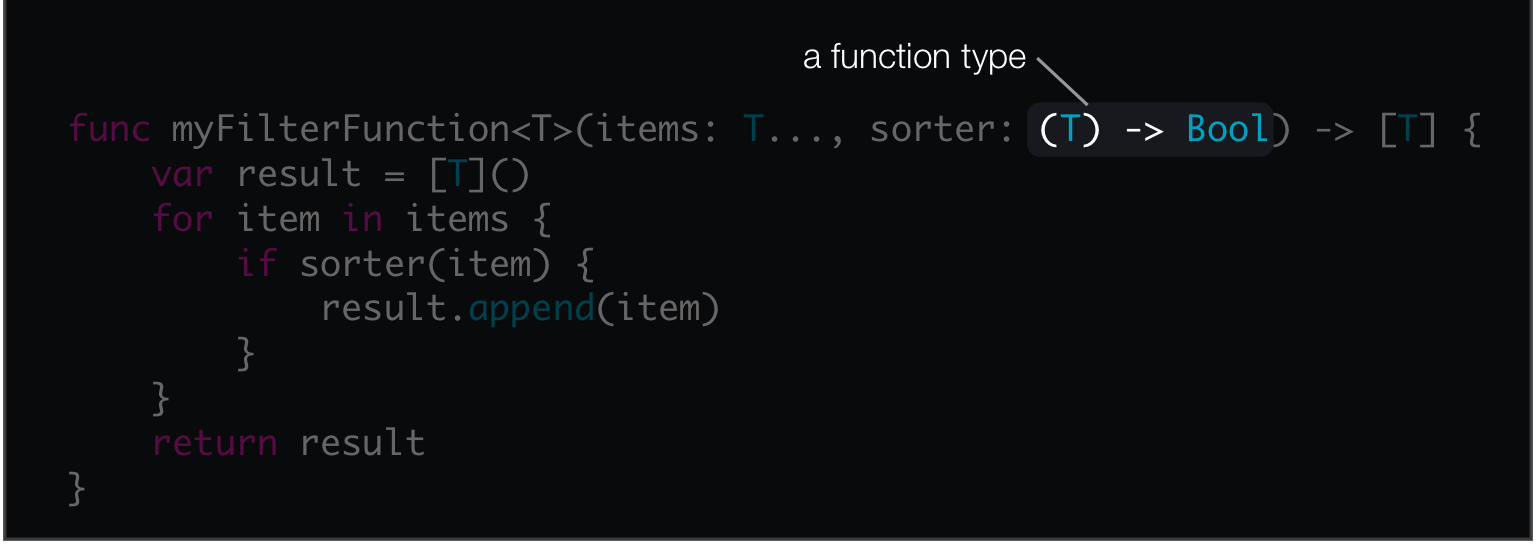
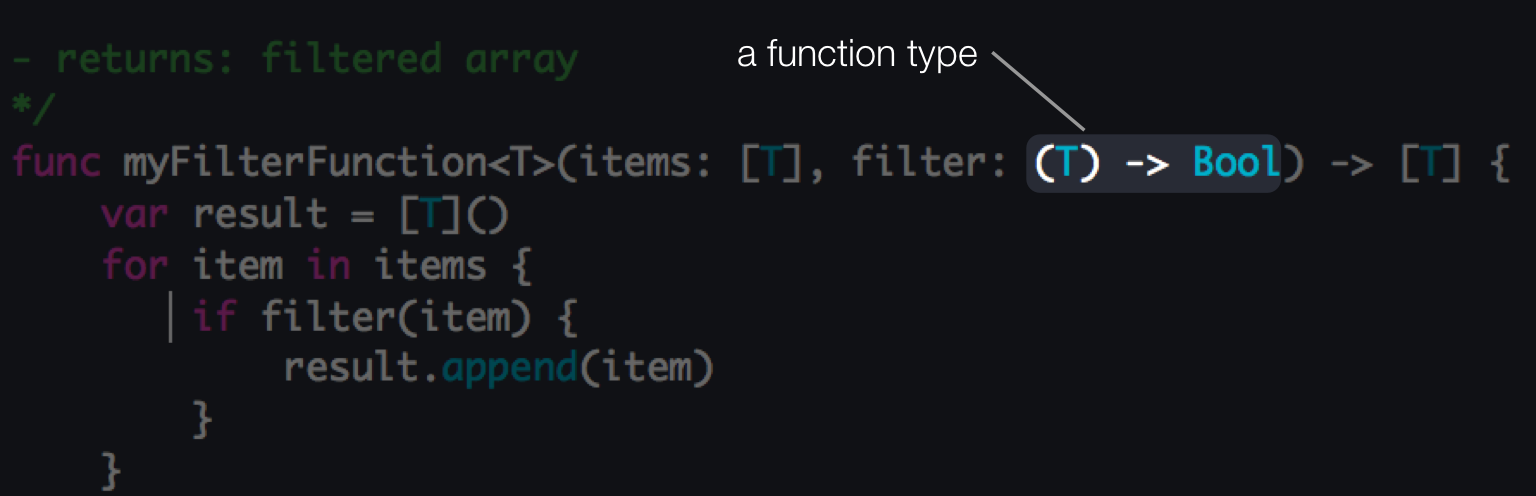
Revise `Functions` and `Closures`

Changed region(s): [[0.0, 0.0, 1.0, 1.0]]

diff --git a/Swift-Introduction.playground/Pages/Closures.xcplaygroundpage/Contents.swift b/Swift-Introduction.playground/Pages/Closures.xcplaygroundpage/Contents.swift
@@ -38,6 +38,15 @@ addClosure(1, 2)
 //:
 //: To use closures in your code, actually it's the same as function types. Like:
 
+/**
+A bubble sort function
+
+- parameter items:  Items to be sorted via this bubble sort function
+- parameter sorter: A function/closure which would be passed 2 items from the source array in.
+                    This function/closure should return `true` when the first parameter is greater than second one.
+
+- returns: sorted items
+*/
 func bubbleSort<T>(var items: [T], sorter: (T, T) -> Bool) -> [T] {
     let itemsCount = items.count
 
@@ -45,9 +54,11 @@ func bubbleSort<T>(var items: [T], sorter: (T, T) -> Bool) -> [T] {
         var swapped = false
         for i in 1..<itemsCount {
             if sorter(items[i], items[i - 1]) {  // should return `true` when items[i] is greater than items[i-1]
+                // Swap items
                 let temp = items[i]
                 items[i] = items[i - 1]
                 items[i - 1] = temp
+
                 swapped = true
             }
         }
@@ -58,9 +69,21 @@ func bubbleSort<T>(var items: [T], sorter: (T, T) -> Bool) -> [T] {
     return items
 }
 
-//: To instantiate closures, as anonymous functions, just like:
-
 let unorderedNumbers = [9, 1, 2, 5, 4, 6, 0, 7, 8, 3]
+
+//: First, we could create a function as the sorter
+//: 
+//: By the documentation of the `bubbleSort` function, this sorter function should return `true` when a is greater than
+//: b.
+
+func intSorter(a: Int, b: Int) -> Bool {
+    return a > b
+}
+
+bubbleSort(unorderedNumbers, sorter: intSorter)
+
+//: But it would be quite tedious if we have to declare a function first each time when we just want to pass it as 
+//: an argument of a function. For this case, closures, as anonymous functions, are better and easier to use. Like:
 
 bubbleSort(unorderedNumbers, sorter: { (a: Int, b: Int) -> Bool in
     return a > b
@@ -84,15 +107,15 @@ bubbleSort(unorderedNumbers, sorter: { a, b in
     a > b
 })
 
-// And even
+// And even the parentheses could be omitted too.
 
 bubbleSort(unorderedNumbers, sorter: { a, b in a > b })
 
-//: Arguments could also be denoted as their index, like:
+//: Arguments could also be denoted with a dollar sign (`$`) and their index, like:
 
 bubbleSort(unorderedNumbers, sorter: { $0 > $1 })  // $0: a, $1: b
 
-//: Further, it's okay to use operators as closures (same function type)
+//: Further, it's okay to use operators as closures (with same function type)
 
 bubbleSort(unorderedNumbers, sorter: >)
 
@@ -108,33 +131,58 @@ bubbleSort(unorderedNumbers) { (a: Int, b: Int) -> Bool in
 
 //: ## Capturing Values
 //:
+//: In the `bubbleSort` example, we demonstrate why we say closures are like anonymous functions. In this case,
+//: we would show you the behavior that closures would capture values.
+//:
 //: Check following examples:
 
-func makeIncrementer1(forIncrement amount: Int) -> () -> Int {
-    var runningTotal = 0
-    func incrementer() -> Int {  // This function, as a closure, captures `runningTotal`
-        runningTotal += amount
-        return runningTotal
+/**
+Create an incrementer
+
+- parameter incrementStep: The step to increase each time when this increamenter being called
+
+- returns: An incrementer with specified step.
+*/
+func makeIncrementer(forIncrement incrementStep: Int) -> () -> Int {
+    var currentStep = 0
+    // Returns a closure
+    return { () -> Int in
+        currentStep += incrementStep  // `currentStep` is actually a value not in the scope of this closure.
+        return currentStep
     }
+}
+
+//: 
+//: The above function returns a closure which **doesn't accept any arguments but returns an Int**.
+//: Each incrementer knows it's last step and returns new step when it's being called.
+
+let tenIncrementer = makeIncrementer(forIncrement: 10)
+let fiveIncrementer = makeIncrementer(forIncrement: 5)
+
+tenIncrementer()   // 10
+tenIncrementer()   // 20
+fiveIncrementer()  //  5
+fiveIncrementer()  // 10
+fiveIncrementer()  // 15
+tenIncrementer()   // 30
+
+//: As you seen, each incrementer has its own `currentStep` value. (Or these 2 incrementer would interfere each other.)
+//: Also, the `currentStep` is not declared in the scope of the closure to be returned. But it's still captured and kept
+//: by the closure.
+
+//: **Nested functions** could capture values too. Only **Global functions** don't capture any values.
+//: So the `makeIncrementer` could be also written with nested functions, like:
+
+func anotherMakeIncrementer(forIncrement incrementStep: Int) -> () -> Int {
+    var currentStep = 0
+    // Returns a function
+    func incrementer() -> Int {
+        currentStep += incrementStep  // `currentStep` is actually a value not in the scope of this closure.
+        return currentStep
+    }
+    // Note there's no `()` after `incrementer`. We are returning this function not its return value.
     return incrementer
 }
-
-func makeIncrementer2(forIncrement amount: Int) -> () -> Int {
-    var runningTotal = 0
-    return { () -> Int in  // This closure captures `runningTotal`
-        runningTotal += amount
-        return runningTotal
-    }
-}
-
-let tenIncrementer = makeIncrementer1(forIncrement: 10)
-let fiveIncrementer = makeIncrementer1(forIncrement: 5)
-tenIncrementer()
-tenIncrementer()
-fiveIncrementer()
-fiveIncrementer()
-fiveIncrementer()
-tenIncrementer()
 
 //: --------------------------------------------------------------------------------------------------------------------
 //: [<- previous](@previous) | [next ->](@next)

diff --git a/Swift-Introduction.playground/Pages/Functions.xcplaygroundpage/Contents.swift b/Swift-Introduction.playground/Pages/Functions.xcplaygroundpage/Contents.swift
@@ -244,12 +244,21 @@ let add: (Int, Int) -> Int = addTwoInts
 func noReturnValueFunction() {}
 let noop3: () -> Void = noReturnValueFunction
 
-//: Function types are able to used as variable types, function arguments types, and function return types.
+//: In Swift, functions are **first-citizen types**. This means functions are able to used as variable types, function 
+//: arguments types, and function return types.
 //:
 //: ![](my-filter-function.png)
-//: ![](get-odd-filter-function.png)
 
-func myFilterFunction<T>(items: T..., filter: (T) -> Bool) -> [T] {
+/**
+Filter values by a filter function
+
+- parameter items:  source array containing all items
+- parameter filter: A function/closure which would be passed an item in, and should return `true` when this item
+                    should be reserved.
+
+- returns: filtered array
+*/
+func myFilterFunction<T>(items: [T], filter: (T) -> Bool) -> [T] {
     var result = [T]()
     for item in items {
         if filter(item) {
@@ -259,16 +268,13 @@ func myFilterFunction<T>(items: T..., filter: (T) -> Bool) -> [T] {
     return result
 }
 
-func getOddFilter() -> (Int) -> Bool {
-    func oddFilter(number: Int) -> Bool {
-        return number % 2 == 1
-    }
-    return oddFilter
+func oddFilter(number: Int) -> Bool {
+    return number % 2 == 1
 }
-myFilterFunction(1, 2, 3, 4, 5, filter: getOddFilter())
+myFilterFunction([1, 2, 3, 4, 5], filter: oddFilter)
 
 typealias IntFilterType = (Int) -> Bool
-let theFilterFunction: (Int..., IntFilterType) -> [Int] = myFilterFunction
+let theFilterFunction: ([Int], IntFilterType) -> [Int] = myFilterFunction
 
 //: --------------------------------------------------------------------------------------------------------------------
 //: --------------------------------------------------------------------------------------------------------------------
